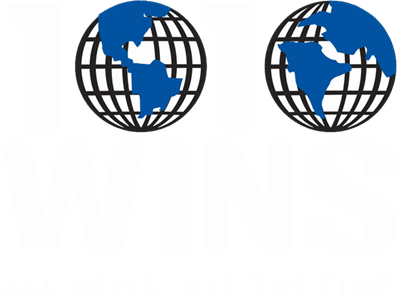
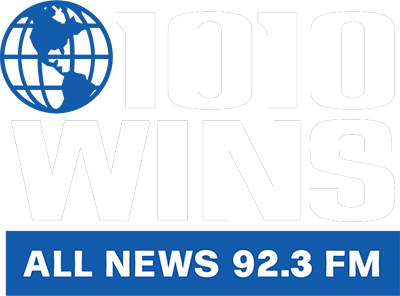
christmas music incoming!

diff --git a/web/stations/stations-america.js b/web/stations/stations-america.js
@@ -11435,7 +11435,7 @@ var stations = {
         },
         {
             name: "99.9 KEZ",
-            logo: "stations/images-america/phoenix/99.9 KEZ.png",
+            logo: "stations/images-america/phoenix/99.9 KEZ_christmas.png",
             url: "https://stream.revma.ihrhls.com/zc33/hls.m3u8"
         },
         {
@@ -29738,7 +29738,7 @@ var stations_c2c = {
         },
         {
             name: "100.5 The River",
-            logo: "stations/images-america/c2c/grand_rapids_mi/100.5 The River.png",
+            logo: "stations/images-america/c2c/grand_rapids_mi/100.5 The River_christmas.png",
             url: "https://live.wostreaming.net/manifest/townsquare-wtrvfmaac-ibc3"
         },
         {
@@ -33210,14 +33210,14 @@ var stations_c2c = {
             url: "https://ats-radio.herokuapp.com/index.php?ats=https://live.wostreaming.net/direct/univision-wqbufmaac-ibc1"
         },
         {
-            name: "ALT 92.3",
-            logo: "stations/images-america/c2c/nyc/ALT 92.3.png",
-            url: "https://ats-radio.herokuapp.com/index.php?ats=https://live.amperwave.net/manifest/audacy-wnylfmaac-imc"
+            name: "WINS 92.3",
+            logo: "stations/images-america/c2c/nyc/1010 WINS.png",
+            url: "https://ats-radio.herokuapp.com/index.php?ats=http://live.amperwave.net/manifest/audacy-winsamaac-imc"
         },
         {
-            name: "New Arrivals 92.3-HD2",
-            logo: "stations/images-america/c2c/nyc/New Arrivals 92.3-HD2.png",
-            url: "https://ats-radio.herokuapp.com/index.php?ats=https://live.amperwave.net/manifest/audacy-wnylhd2aac-imc"
+            name: "ALT 92.3-HD2",
+            logo: "stations/images-america/c2c/nyc/ALT 92.3-HD2.png",
+            url: "https://ats-radio.herokuapp.com/index.php?ats=https://live.amperwave.net/manifest/audacy-winshd2aac-imc"
         },
         {
             name: "Channel Q 92.3-HD3",
@@ -35642,7 +35642,7 @@ var stations_c2c = {
         },
         {
             name: "Sunny 95",
-            logo: "stations/images-america/c2c/columbus_oh/Sunny 95.png",
+            logo: "stations/images-america/c2c/columbus_oh/Sunny 95_christmas.png",
             url: "https://ats-radio.herokuapp.com/index.php?ats=https://live.wostreaming.net/manifest/saga-wsnyfmaac-ibc2"
         },
         {
@@ -37051,8 +37051,8 @@ var stations_c2c = {
             url: "https://ice-1.streamhoster.com/lv_wqed--893"
         },
         {
-            name: "nu 92.7",
-            logo: "stations/images-america/c2c/lancaster_pa/nu 92.7.png",
+            name: "Santa 92.7",
+            logo: "stations/images-america/c2c/lancaster_pa/nu 92.7_christmas.png",
             url: "https://playerservices.streamtheworld.com/api/livestream-redirect/WNUUFMAAC_SC"
         },
         {
@@ -40948,7 +40948,7 @@ var stations_c2c = {
         },
         {
             name: "KZ 104.3",
-            logo: "stations/images-america/c2c/green_bay_wi/KZ 104.3.png",
+            logo: "stations/images-america/c2c/green_bay_wi/KZ 104.3_christmas.png",
             url: "https://ats-radio.herokuapp.com/index.php?ats=https://woodward-radio.streamb.live/SB00131"
         },
         {
